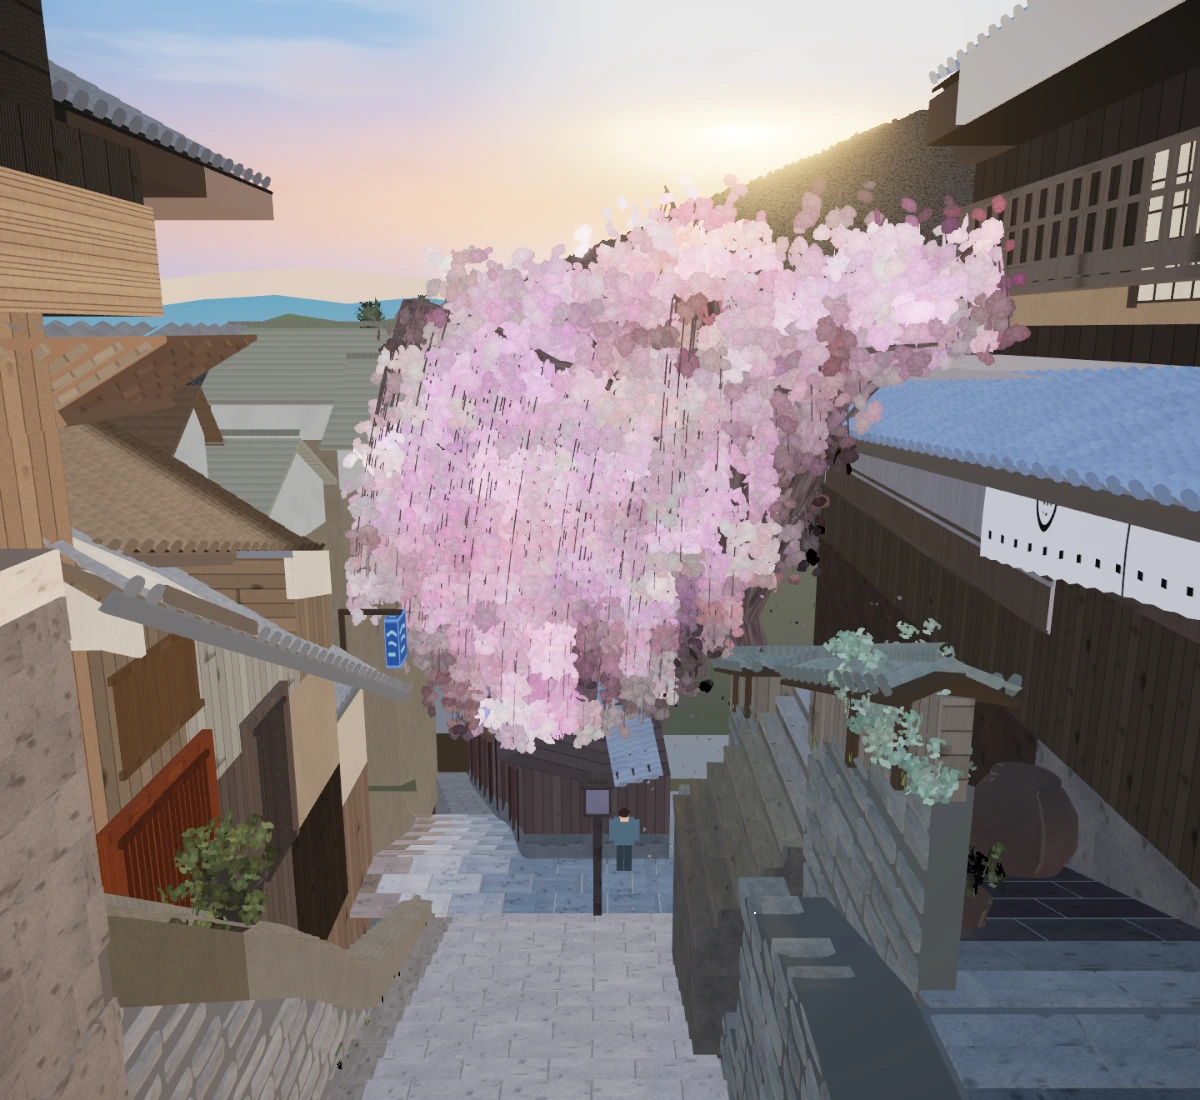
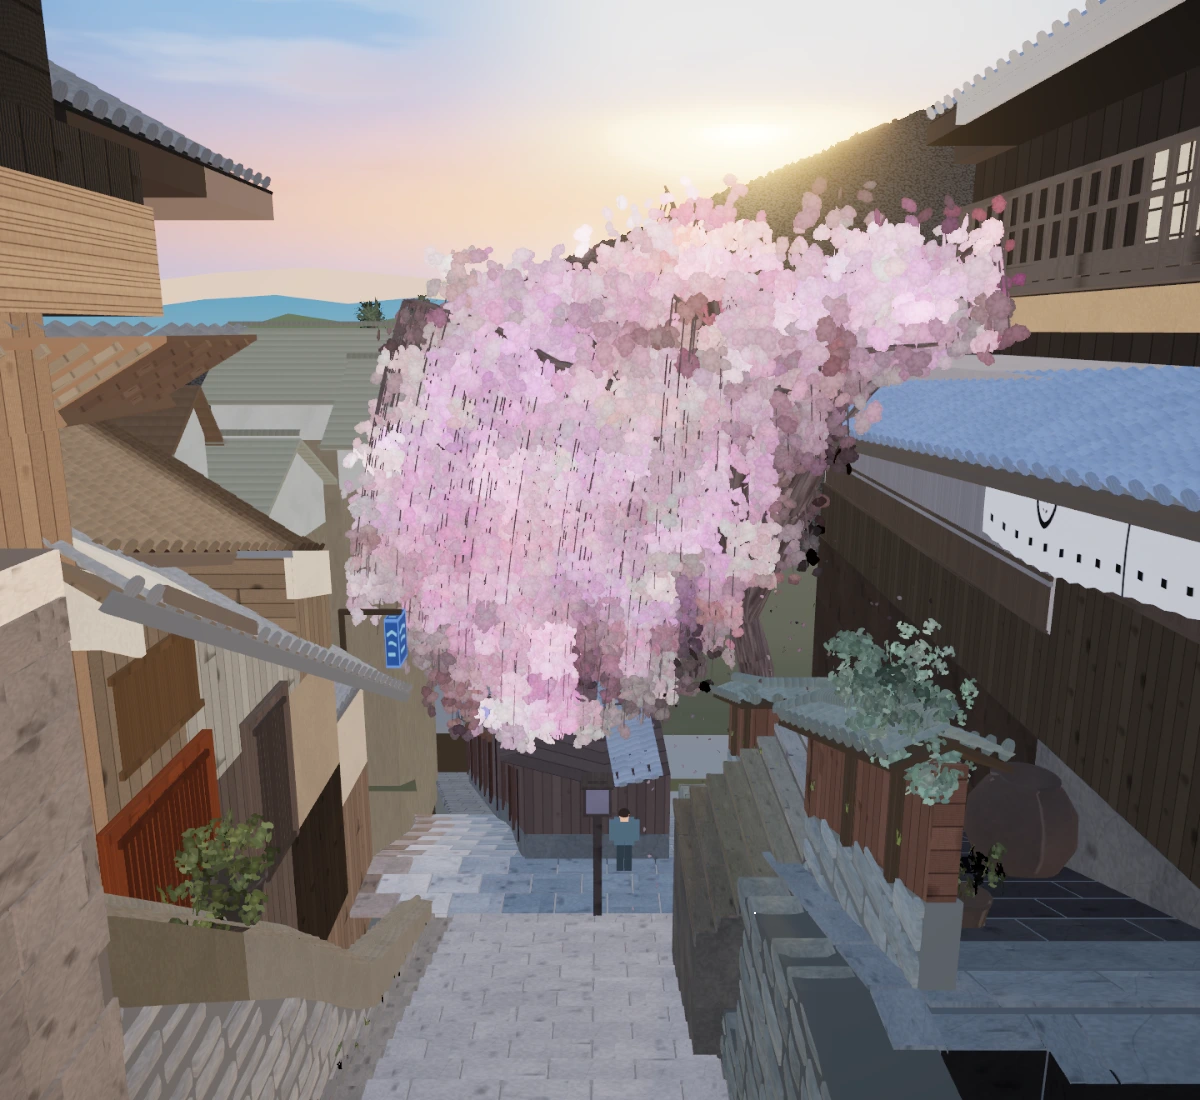
Plan, devlog and render: iteration 5 landed, and a shot that drew a different frame from the same tree
Iteration 5 is merged (09eb339) and ticked; its lane row is done and its outcome paragraph records the render on main (sha256 e95a53185ee3 on tree 387c0513bdeda0a5) and two bounds: namerules pins mesh counts, not instance counts, and the devlog's two splits of the net gain agree only on the net.

The first suite on main after the merge went red at the threshold check because its shot drew a different frame from that same tree: sha256 0e56fc677faf at 0.0632 / 0.5718, every lit surface darker by five to seven luma levels and the sky identical, with the first frames at 13.7 s where every good run takes about 20. A shot on its own and a second full suite both reproduced e95a53185ee3 to the digit. The scored frame is therefore not deterministic run to run on this machine, and neither shot nor compare records which rung of the post chain's ladder drew it, so a lesser rung's frame can become the contract on a green run. That is opened as a lane ahead of iteration 6, whose target is re-stated from the sweep: the hill's near face, the right machiya's roof mass, the far houses' block-out, and the bottom-left quarter.

docs/render.webp is encoded from the reproduced frame.

diff --git a/docs/work/1_realism-and-content/plan.md b/docs/work/1_realism-and-content/plan.md
@@ -41,8 +41,8 @@ Per iteration, all of them, before the integration owner pushes:
 - [x] Iteration 2, content (merged 28bd01d, gated 3c646d2): the machiya row and the bare slab; the rest of the block-out carries to a later iteration. Was: retire the block-out the orbit sweep shows. The corner house at the bend, the far houses as machiya with tiles and lattices, roof undersides with rafters, the right roof mass as tiles, the dormer body, the paved bands.
 - [x] Iteration 3, re-targeted from the heat map on 2026-09-15 (merged 2026-09-16): the right half and the bottom third, where the error moved after iteration 2, plus two iteration-1 survivors (the annex canopy still tile where the photo has dark wood; the shrub still brown) and shopfronts on the far row. Sky and atmosphere move to iteration 4; the fixed list below shifts by one.
 - [x] Iteration 4, re-targeted 2026-09-16 (merged a78ba8f): content every orbit pose shows wrong — the hill and mountains, ground fog bands, the left row's backs, the right roof mass, the bend — plus the right-machiya cells that survived three colour iterations, treated as shadow and placement. The sky band now scores better than the frame mean (0.058 against 0.066) and the canopy box best of all (0.034), so sky and the cherry's depth move down. Was: the cherry's depth: dark limbs visible through the canopy, a shadowed magenta interior against backlit edges, strand structure, card variety.
-- [ ] Iteration 5, re-targeted 2026-09-17 (in flight): the bottom third by measurement, the corner, the machiya trio, the glare overshoot, cost-neutral. Was: street life: stone variation and wetness, the drain, moss, two or three more figures, shop goods under the noren, signs, pots, a bicycle, only where the photo view does not regress.
-- [ ] Iteration 6, close-up realism: materials at orbit distance, tile and board edges, wood grain, foliage cards that hold up close.
+- [x] Iteration 5, re-targeted 2026-09-17 (merged 09eb339): the bottom third by measurement, the corner, the machiya trio, the glare overshoot, cost-neutral. Was: street life: stone variation and wetness, the drain, moss, two or three more figures, shop goods under the noren, signs, pots, a bicycle, only where the photo view does not regress.
+- [ ] Iteration 6, re-targeted 2026-09-17: the sweep's largest wrongs as geometry — the hill's near face, the right machiya's roof mass, the far houses' block-out — plus the bottom-left quarter by measurement. Waits on the shot-rung lane. Was: close-up realism: materials at orbit distance, tile and board edges, wood grain, foliage cards that hold up close.
 - [ ] Then the loop again, from the heat map and the sweep.
 
 ## Lanes
@@ -56,7 +56,7 @@ One expensive gate runs on this machine at a time (a full `npm test`, or `animat
 | iteration 4 | done: merged a78ba8f, 0.0640 / 0.5403 | content from the sweep: the hill and mountains as geometry, ground fog bands, the left row's open backs, the right roof mass, the bend; the persistent right-machiya cells treated as shadow and placement | src/, PLAN-scores.md, its devlog | nothing |
 | tools-followups | done: merged 6f12960 | clearance classifies the new walkway slabs and spill leaves as buildings; the sweep lost its digest binding to the scored frame when views moved to the GPU | tools/, AGENTS.md Gates, gate-proofs | nothing |
 | tools-bend-regex | done: merged aefc71f | narrow clearance's bend exemption to what the scene now produces; a gate that lists every name-matching rule's population and fails on an unstated change, retiring the open lesson | tools/, AGENTS.md Gates, gate-proofs, lessons | nothing |
-| iteration 5 | worker iter5-bottom, worktree from cd24269 | the bottom third of the frame (stone, steps, walls, the fence's base and cap), the bottom-right corner as an occluder or a cast shadow rather than a colour, the right-machiya trio as placement and shading, one glare overshoot from iteration 4; cost-neutral on draw calls | src/, PLAN-scores.md, its devlog | the gate slot by request |
+| iteration 5 | done: merged 09eb339, 0.0596 / 0.5713 | the bottom third of the frame (stone, steps, walls, the fence's base and cap), the bottom-right corner as an occluder or a cast shadow rather than a colour, the right-machiya trio as placement and shading, one glare overshoot from iteration 4; cost-neutral on draw calls | src/, PLAN-scores.md, its devlog | nothing |
 | integration | this session | merge, suite in the primary checkout, push, CI to a conclusion | the primary checkout | each lane's handoff |
 
 ## Outcome
@@ -78,3 +78,5 @@ Iteration 3, merged 2026-09-16. Cell distance 0.0749 to 0.0660 and SSIM 0.4733 t
 Open for the tools lane, from iteration 3: `clearance`'s TERRACE list classifies the new walkway slabs and the fence's spill leaves as buildings (harmless at their x today; the terrace headroom rays land 5 mm under the walking surface); and with `views` on the GPU and `shot` on SwiftShader, the sweep is bound to the scored frame only by source hashes, a weaker claim than the byte identity it had.
 
 Iteration 4, merged a78ba8f. Cell distance 0.0660 to 0.0640 and SSIM 0.5286 to 0.5403; thresholds tightened to 0.0655 and 0.5353. The sky, the hill's skyline, the ranges, the valley floor, the left row's backs and the bend's paving are real geometry now; the right machiya's roof is still one plane and the far houses are block-out. Perf 5.00 ms median and 372 draw calls of 400, 31 of them spent here, so the next content unit must be cost-neutral or pay first. The render on main after the merge is sha256 bfb72a92a72d; the devlog's recorded digest predates the critic's second round, whose shadow fixes moved pixels without moving the scores. Two facts corrected in the record: the sky was the frame's largest single error mass (its 69 cells at 4.208 summed distance), which a mean-per-cell reading had hidden; and the cell at (0.146, 0.386), on the miss list since iteration 1 as house 1's timber, was a hole showing a mountain card a kilometre away.
+
+Iteration 5, merged 09eb339. Cell distance 0.0640 to 0.0596 and SSIM 0.5403 to 0.5713; thresholds tightened to 0.0611 and 0.5663. The frame's two worst cells for three iterations were geometry: the right terrace's near end is a step at one z, and they go 0.2673 to 0.0183 and 0.2484 to 0.0397. The wall-top strip and the fence's wall were each two populations one sample box had averaged; the top eave's edge sits on the photo's line with the ridge held; the hill's glare narrows to 0.055 of frame. Draw calls 372 to 372, so cost-neutral, and the frame time is not quoted because three runs of one tree spread wider than any difference between trees. The render on main after the merge is sha256 e95a53185ee3, tree 387c0513bdeda0a5, the same tree the worktree's sweep 33aa7bfd4276 was drawn from. The first suite on main went red at the threshold check: its shot drew a different frame from that same tree (sha256 0e56fc677faf, 0.0632 / 0.5718, every lit surface darker and the sky untouched), a second shot reproduced the worktree's frame to the digit, and the second full suite passed all ten gates with the shot at e95a53185ee3 (0.0596 / 0.5713). The scored frame is therefore not deterministic run to run on this machine, and neither shot nor compare records which rung of the post chain's ladder drew it; that is opened as its own lane below, ahead of iteration 6, because every threshold the loop records comes from a shot. Two bounds recorded: the name-rules gate pins mesh counts and not instance counts, so the 17 instances the step and coping added to right walkway slabs (84 to 101) are outside what it can see; and the devlog quotes two splits of the same net gain (440 cells better by 3.182 and 88 worse by 0.837 in the cells section; 3.12 and 0.776 in the critic's), which agree on the net of 2.345 and differ in their gross terms. Not reached, carried to iteration 6: the right machiya's roof mass is one plane and the hill's near face is a speckled cliff from the orbit poses.

diff --git a/docs/devlog/summary.md b/docs/devlog/summary.md
@@ -2,6 +2,7 @@
 
 One short dated line per behaviour-changing session, newest first. History, not status. Anything a later session could trip over is in `detailed/`.
 
+- **2026-09-17 — Iteration 5 of the realism loop: 0.0640/0.5403 to 0.0596/0.5713, the bottom third by measurement.** The right terrace's near end is a step at one z, and the frame's two worst cells for three iterations were geometry rather than a colour: 0.2673 to 0.0183 and 0.2484 to 0.0397. The wall-top strip and the fence's wall were each two populations a single sample box had averaged; the top eave's edge sits on the photo's line with the ridge held; the hill's glare narrows to 0.055 of frame. Draw calls 372 to 372. One critic reproduced 21 of 21 quoted box means and found the riser 0.0046 m deep, a dead offset branch, a sample box across both populations, a coping stone laid flat across the terrace's kink and an unswept skirt; four after figures belonged to an earlier arm and a frame-time speedup was machine load. 88 of 528 cells got worse, by 0.837 against 3.182 gained. Not reached: the machiya's roof mass, the hill's near face. At integration the first suite on main drew a different frame from the same tree (0e56fc677faf, 0.0632) and went red at the threshold check; the second shot and the second full suite passed all ten gates with the shot at e95a53185ee3 (0.0596 / 0.5713). The scored frame is not deterministic on this machine and no gate records the post chain's rung: opened as a lane. Merged 09eb339.
 - **2026-09-17 — The bend exemption narrowed, and every name-selecting rule gated.** `clearance`'s exemption past the bend went from 40 rows and three names to 6 rows and `corner house roof`; the control is the measurement: restoring the pre-iteration-4 street end goes red under the new pin and stayed green under the old, which had passed 34 rows of unchecked road under three buildings. `npm run namerules` evaluates 53 name-matching rules against the built scene and pins their populations (255 meshes, 98 shadow casters) to a manifest, retiring the lesson from iteration 4's shadow-pass regression; nine red proofs including the shipped defect itself. The critic found the gate's header claiming coverage its scan did not have (`===` lookups were invisible) and a declaration reader that could evaluate a dead copy of a rule; both fixed. Detail in `detailed/2026-09-16-tools-bend-regex.md`.
 - **2026-09-16 — Iteration 4 of the realism loop: 0.0660/0.5286 to 0.0640/0.5403, content every orbit pose showed wrong.** The sky was the frame's largest single error mass and not on the brief; the hill has a treed skyline and its sun glare had been computed in the wrong coordinate space, off the frame's edge, since it was written; the ranges recede in haze; the flat ground is a height-fielded valley; the left row's backs are walls and a hole through them showing a mountain card a kilometre away is closed; the far street's paving no longer runs through the corner house, so the clearance gate's exempt region fell from 34 rows to 3. Half-done, stated: the right machiya's roof is still one plane; the far houses are block-out. Two critic rounds retracted three of the author's claims and caught a rename that silently moved 37 instances into the shadow pass through a second name regex, now a lesson naming its gate. Perf 5.00 ms, draw calls 372 of 400: the next content unit is cost-neutral or pays first. Detail in `detailed/2026-09-16-iteration-4.md`.
 - **2026-09-16 — Two tool follow-ups from iteration 3, and what their critic caught.** `clearance` had classed the new terrace paving and the fence's spill foliage as buildings; the headroom minimum did not move but 88 grid cells had been overstated by up to 1.02 m. The sweep is bound to its source tree again (`shot` writes a sidecar, `compare` refuses a render whose tree is not the tree on disk, `npm run treecheck` names the differing files), proved red on a change that renders identically. Four of seven sweep poses were rendered unconverged; poses now iterate to a bit-exact fixed point and seven sweeps give one digest. The critic found the new check printing FAIL and exiting 0 on one record, and the tree hash depending on line-ending config; both fixed and proved red. Detail in `detailed/2026-09-16-tools-followups.md`.

diff --git a/docs/devlog/detailed/2026-09-17-iteration-5.md b/docs/devlog/detailed/2026-09-17-iteration-5.md
@@ -265,3 +265,7 @@ Claims corrected:
 11. Smaller: `walkCoping`'s comment claimed "the three cells between x 1.35 and 2.15" where its own ramp puts them at 1.89, 1.95 and 2.09; `walkwayStep` is not the mean of the two boxes it quotes (#1c2124) and says so; "no cell straddles the turn" holds at the inner step line only — the return face covers 41% of cell (0.896, 0.977)'s width; and `vegetation.js` still said the spill takes `shrubLit` at both ends.
 
 Answered rather than fixed: the critic asked for a `roofThickness` sweep at 0.20 and 0.25 — 0.20 gives 0.05958 / 0.57123 and sums 0.700 over the eave's cells, the same as 0.27, and 0.27 keeps more SSIM, so 0.27 is taken. And the perf pair it could not verify is retracted above: three runs on the shipped tree give 6.00, 6.70 and 5.90 ms and three more after the fixes give 4.20, 5.60 and 5.60, all at 372 draw calls — the spread between runs of one tree is larger than any difference between trees, so the frame time carries nothing here and the draw-call count carries the cost-neutral claim.
+
+## Integration
+
+Merged to main as 09eb339 (a fast-forward of the worktree's commit). `npm test` on main after the merge ran twice: the first went red at the threshold check because its shot drew a different frame from the same tree (sha256 0e56fc677faf, 0.0632 / 0.5718, with every lit surface darker by five to seven luma levels and the sky identical; the evidence is under `out/scratch/flake/` and in `docs/devlog/summary.md`), a shot on its own then reproduced this file's frame to the digit, and the second full suite passed all ten gates with the shot at e95a53185ee3 (0.0596 / 0.5713). The render on main is sha256 e95a53185ee3 on tree 387c0513bdeda0a5, the tree this file's sweep and scores belong to. The two splits of the net gain quoted above (3.182 and 0.837 in the cells section, 3.12 and 0.776 in the critic's list) agree on the net of 2.345 and were not reconciled at integration.
